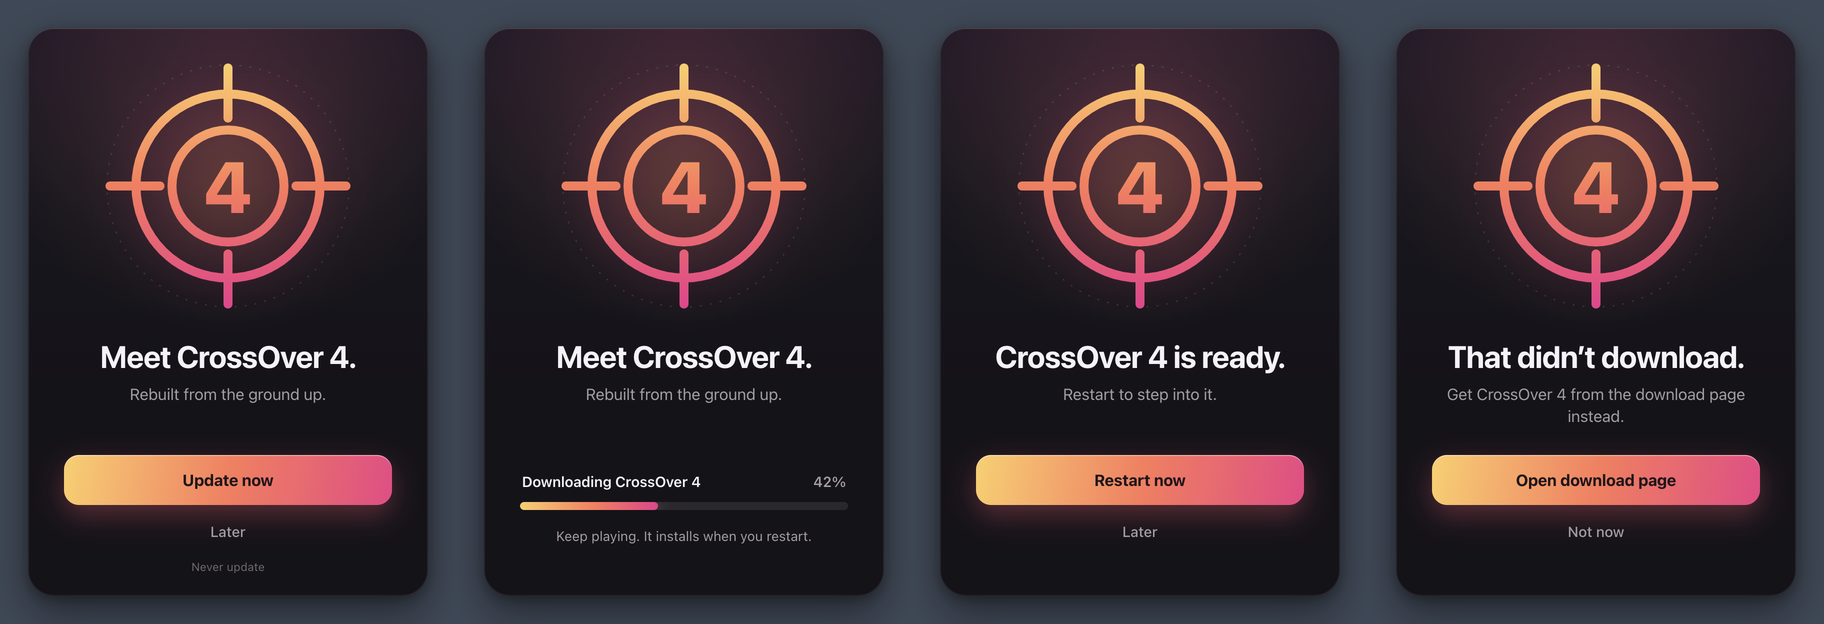
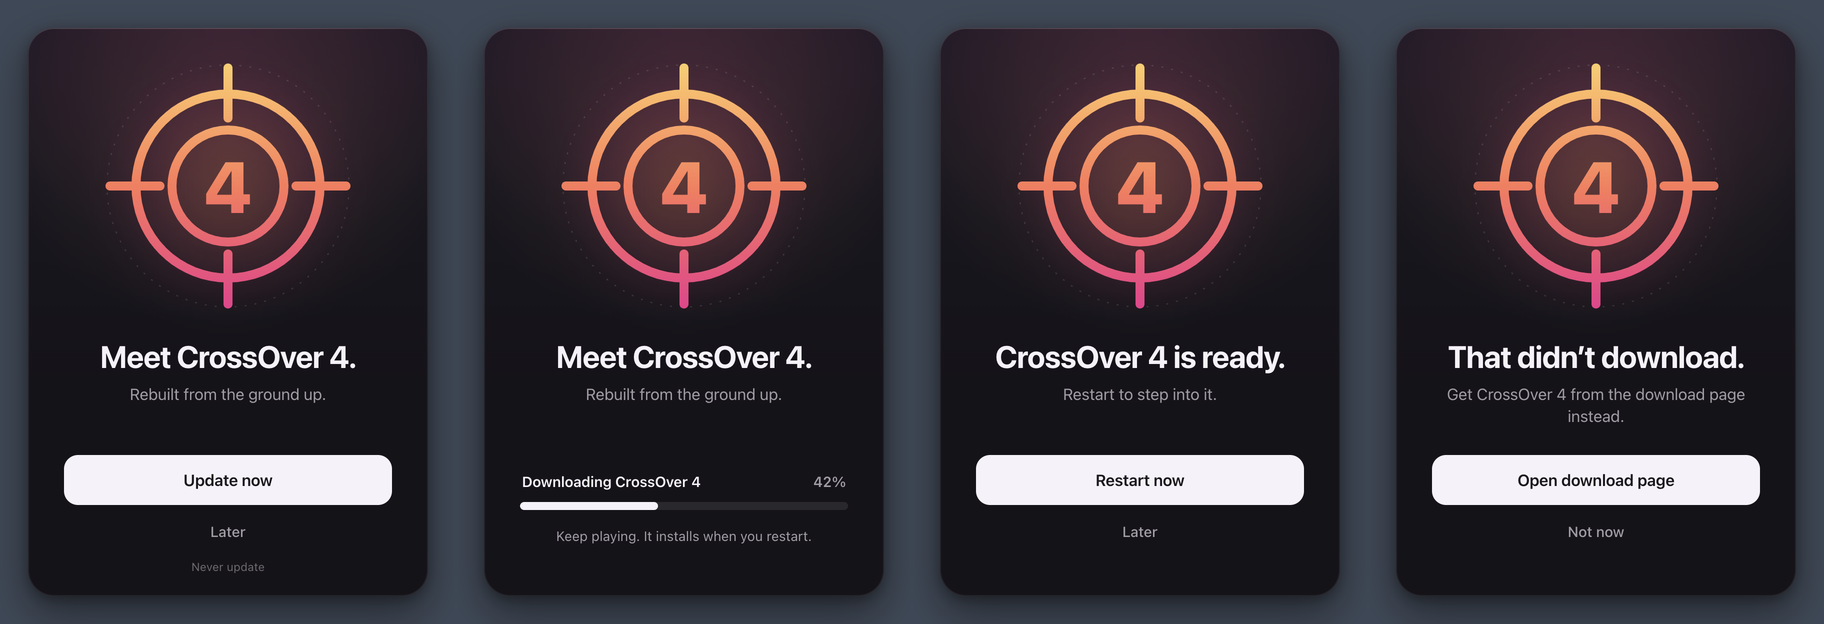
design: flat button, the gradient stays on the crosshair

diff --git a/src/renderer/announcement.html b/src/renderer/announcement.html
@@ -170,23 +170,22 @@
 
 			button { font: inherit; color: inherit; border: 0; background: none; cursor: pointer; -webkit-app-region: no-drag; }
 
+			/* One flat, bright surface. The gradient belongs to the crosshair alone. */
 			.primary {
 				position: relative;
 				width: 100%;
 				height: 50px;
-				border-radius: 15px;
+				border-radius: 14px;
 				font-size: 16px;
-				font-weight: 650;
+				font-weight: 600;
 				letter-spacing: -0.01em;
-				color: #1b0d12;
-				background: linear-gradient(100deg, var(--sun) 0%, var(--ember) 52%, var(--rose) 108%);
-				box-shadow: 0 1px 0 rgba(255, 255, 255, 0.45) inset, 0 10px 26px rgba(240, 80, 110, 0.34);
-				overflow: hidden;
-				transition: transform 160ms var(--ease-out), box-shadow 200ms ease, filter 200ms ease;
+				color: #131017;
+				background: var(--text);
+				transition: transform 160ms var(--ease-out), background 160ms ease;
 			}
 
-			.primary:hover { filter: brightness(1.06); box-shadow: 0 1px 0 rgba(255, 255, 255, 0.5) inset, 0 12px 30px rgba(240, 80, 110, 0.44); }
-			.primary:active { transform: scale(0.975); }
+			.primary:hover { background: #fff; }
+			.primary:active { transform: scale(0.975); background: #e9e5ef; }
 
 			.secondary {
 				height: 40px;
@@ -212,7 +211,7 @@
 			.never:hover { color: var(--muted); text-decoration: underline; text-underline-offset: 3px; }
 
 			button:focus { outline: none; }
-			button:focus-visible { box-shadow: 0 0 0 2px var(--ink), 0 0 0 4px rgba(255, 209, 102, 0.9); }
+			button:focus-visible { box-shadow: 0 0 0 2px var(--ink), 0 0 0 4px rgba(255, 160, 96, 0.95); }
 
 			/* ---------- progress ---------- */
 
@@ -244,8 +243,7 @@
 				width: var(--pct, 0%);
 				min-width: 8px;
 				border-radius: 8px;
-				background: linear-gradient(90deg, var(--sun) 0%, var(--ember) 55%, var(--rose) 100%);
-				box-shadow: 0 0 14px rgba(255, 122, 89, 0.55);
+				background: var(--text);
 				transition: width 400ms var(--ease-out);
 			}
 
